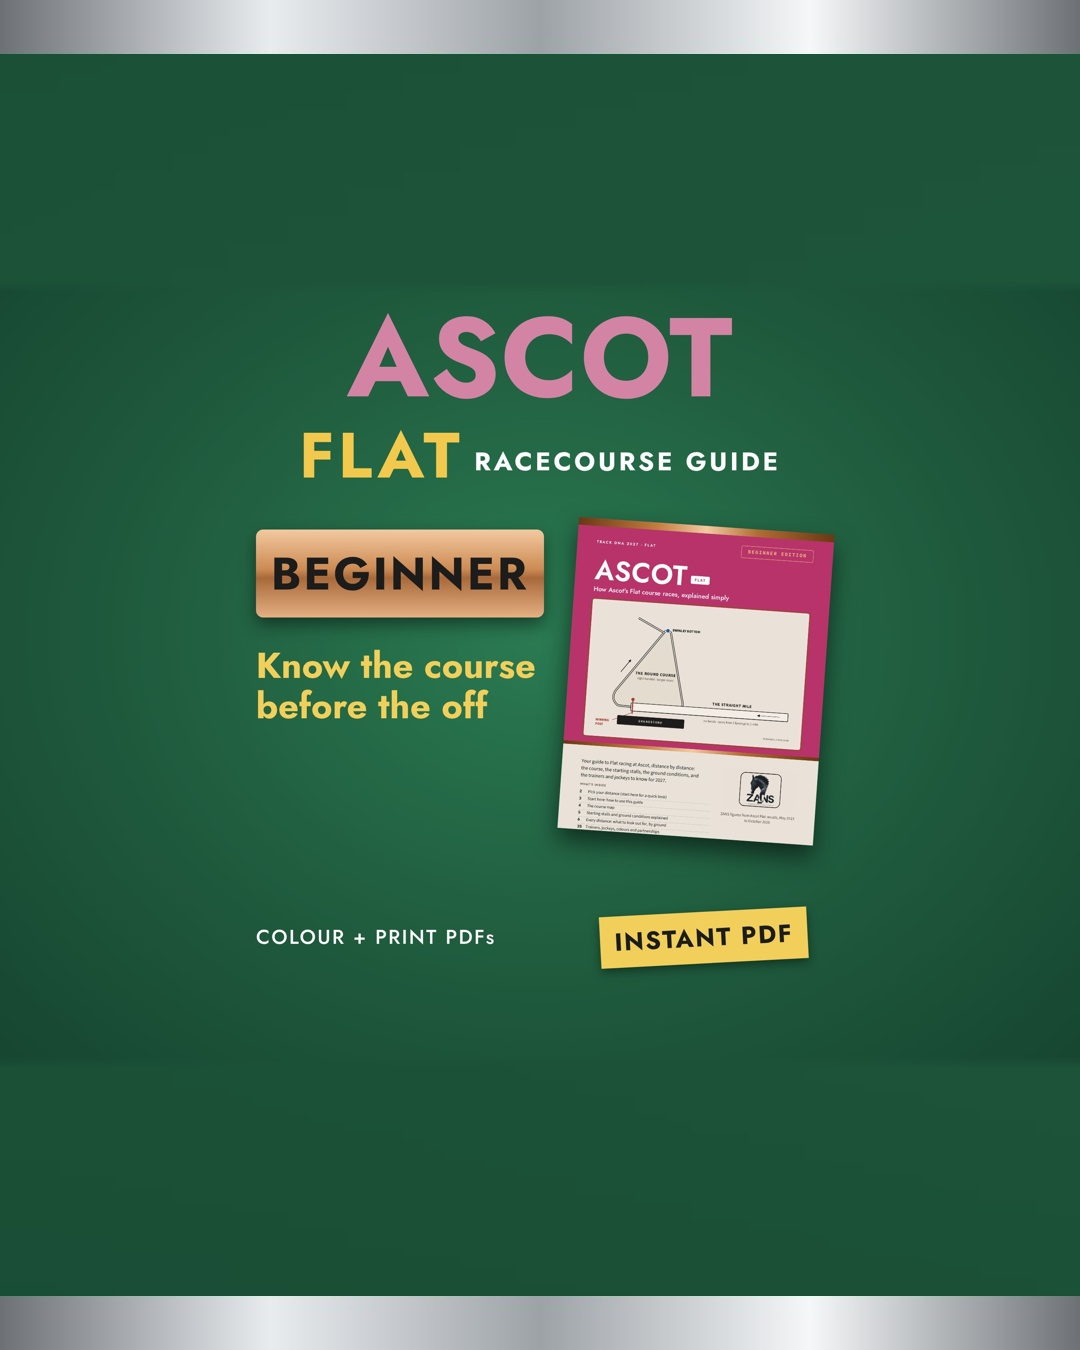
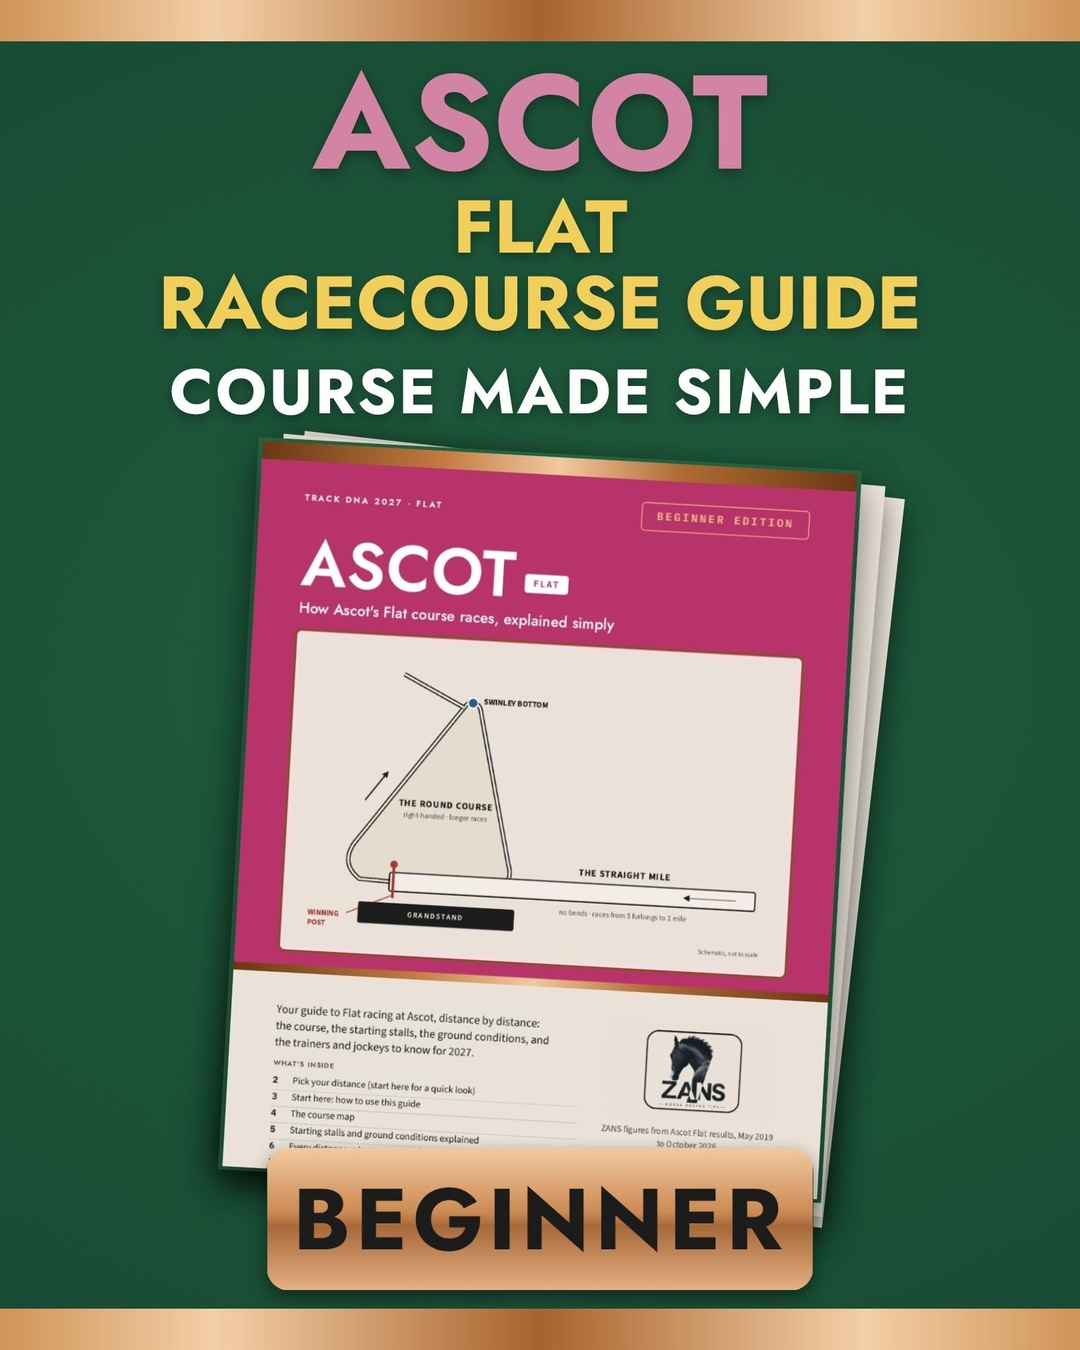
Quick posts: rebuilt Ascot 4:5 from live Etsy cover
Claude-Session: https://claude.ai/code/session_012o9aG5Yhg3vNvA85F4w9Kk

diff --git a/quick-posts/captions-and-notes.md b/quick-posts/captions-and-notes.md
@@ -7,8 +7,8 @@ Caption: A Christmas bauble for the racing fan in your family. Any name, any rac
 Hashtags: #christmasbaubles #horseracinggifts #personalisedbauble #racingsilks #christmasdecorations
 
 ## 2. Ascot Flat Beginner guide (2-ascot-guide-4x5.jpg)
-Source: Ascot Flat Beginner main photo v2 (etsy-seo/2026-11-23/new main photos v2 phone-safe). No page count on the image or in the caption. Not confirmed live.
-Caption: Know the course before the off. Our Ascot Flat Beginner guide explains the course map, which starting stalls do best, every type of ground and the trainers and jockeys to know. Instant PDF download, colour and print versions. Search ZANS Racing on Etsy. Which course should we cover next?
+Source: LIVE Etsy main photo for Ascot Flat Beginner (image 8968149183, Layout C, 2700x2025), cropped centre to 4:5, its own copper strips kept top and bottom. No page count on the image or in the caption.
+Caption: Ascot made simple. Our Ascot Flat Beginner guide explains the course map, which starting stalls do best, every type of ground and the trainers and jockeys to know. Instant PDF download, colour and print versions. Search ZANS Racing on Etsy. Which course should we cover next?
 Hashtags: #horseracing #ascot #racingguide #horseracingtips #racingforbeginners
 
 Suggested slots: item 1 tonight 17:00 if booked by then, item 2 tomorrow 12:30.
